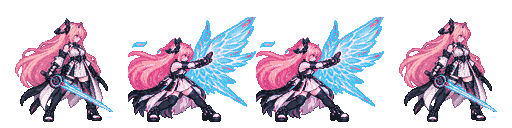
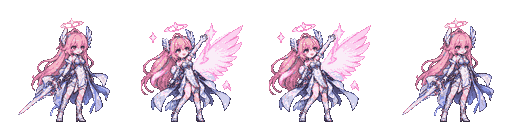
art: 에이메스 원작 고증 재제작 도트 적용(색 보정 해제), 메카 형태 프롬프트 추가

diff --git a/docs/NEW_HEROES_PROMPTS.md b/docs/NEW_HEROES_PROMPTS.md
@@ -83,3 +83,9 @@ Image 1 is the OFFICIAL character reference: reproduce Aemeath from Wuthering Wa
 ```
 Image 1 is the OFFICIAL character reference: Aemeath's face, hair, halo and outfit must match it exactly. Image 2 is the new pixel hero atlas for consistency. Finished collectible card ILLUSTRATION atlas for Wuthering Waves pixel-art deckbuilder. EXACT 2 columns x 5 rows, 10 panels, each panel a landscape 4:3 illustration, full bleed, clean straight boundaries; no gaps. Whole image aspect 8:15. Hero identity: Aemeath, long pink hair, golden eyes, pink halo, digital ghost glitch sparkles, single wing motif, sword. Panels in row-major order: 1. Aemeath sweeping pink fusion sword slash; 2. Aemeath ducking behind a hexagonal pink light barrier; 3. Aemeath merging into a white-pink mechascout silhouette; 4. mechascout blade piercing forward with jet trail; 5. three pink star shards converging on an enemy; 6. radiant single mechanical wing unfolding; 7. Aemeath descending in a rain of pink meteors; 8. Aemeath's translucent ghost form glitching beside her real silhouette; 9. giant pink sword breaking a dark cosmic barrier; 10. Aemeath smiling with halo glowing, idol pose under starlight. Every panel UNIQUE, dramatic readable action with strong central focal object, full scenic colored background. Crisp chunky 16-bit pixel clusters, limited palette, dark navy outlines, luminous pink accent. Displays at 150x84 so avoid tiny details; make subjects large. No card frame, no numbers, NO text or typography, no logos, no UI. Professional cohesive game card art.
 ```
+
+### hero_aemMecha.png — 메카스카우트(엑소스트라이더) 합체 형태
+첨부 3개: ① 원작 공식 메카 형태 캡처(해방/합체 장면) ② 새 `art/source-v2/hero_aem.png`(같은 캐릭터임을 맞춤, 8번째 칸의 메카 실루엣 참고) ③ `hero_san.png`(화풍·크기 기준). 저장: `art/source-v2/hero_aemMecha.png`
+```
+Image 1 is the OFFICIAL reference of Aemeath's mechascout (Exostrider) combat form from Wuthering Waves: reproduce its armor shapes, head, wing, colors and weapon EXACTLY; do not invent parts. Image 2 is the pink-haired heroine Aemeath (same palette family; the mech silhouette in its last cell shows the transformation). Image 3 is ONLY the pixel-art style, pixel density and cell layout reference. NEW SPRITE ATLAS for a Wuthering Waves fan pixel-art deckbuilder. EXACT 4 columns by 2 rows of equal square cells, whole image 2:1, eight full-body poses of the SAME mech: sleek white and pearl armored humanoid mechascout with soft pink glowing core and seams, a single large luminous wing (monowing) plus smaller thrusters, a pink photon blade, small pink halo ring above the head linking it to Aemeath. Facing RIGHT. Row1: col1 IDLE hovering stance, wing half folded, blade lowered; col2 ANTICIPATION blade drawn back, thrusters igniting pink; col3 STRIKE forward lunge, long pink photon slash with jet trail; col4 RECOVERY blade swung down, wing settling. Row2: col1 GUARD wing wrapped in front as a shield, pink hexagon barrier; col2 HIT recoil leaning backward, armor sparks, no gore; col3 CAST gathering a pink star core in the open hand, wing spreading; col4 ULTIMATE fully spread wing, overhead giant photon blade, starburst. FULL BODY in every cell; each silhouette fits inside central 65% of its cell leaving 17% transparent padding on all sides; keep effects inside the cell. NO touching adjacent cells. Same body scale and consistent foot/hover baseline in every cell (mech body about the same height as the heroine plus 10%). Authentic chunky 16-bit PIXEL ART not smooth painting, crisp dark outline, limited palette white pearl pink with dark navy shadows. True transparent background (not a drawn checkerboard). No labels, text, grid, border or scenery. This is mechanically cut as 4x2 so precision matters.
+```
